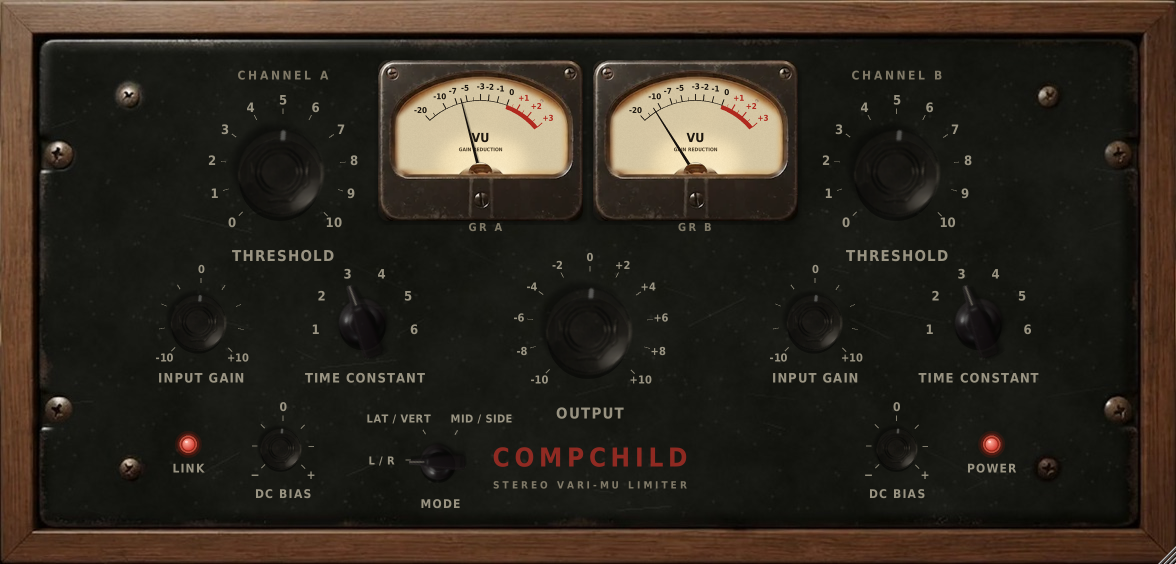
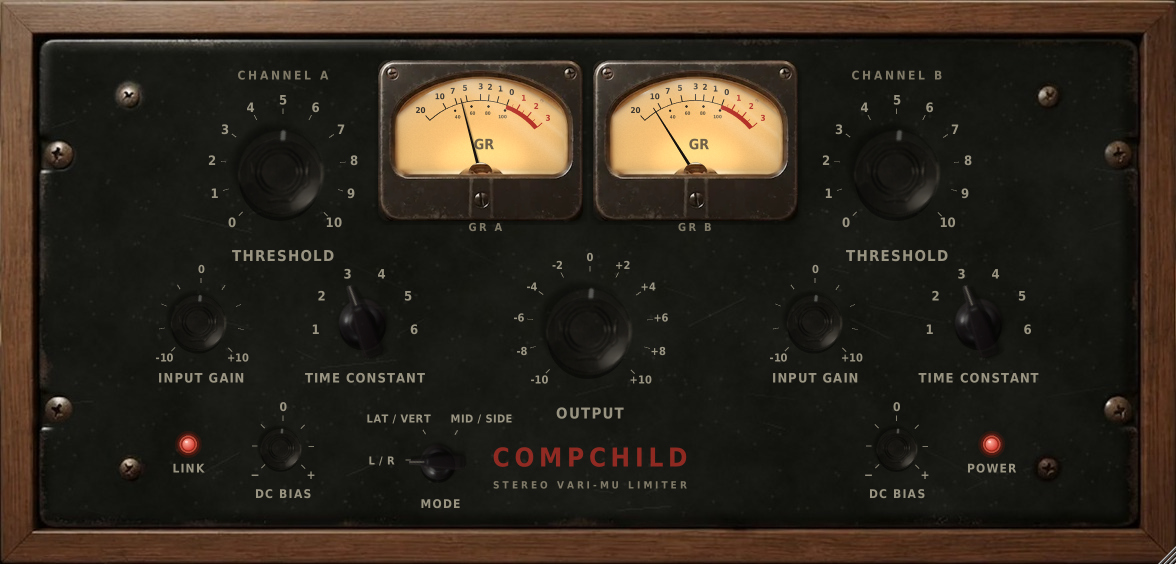
1.1.0: GR meter scale, glass, cream/black meter skins
- meters: 20 10 7 5 3 2 1 0 | 1 2 3 GR scale with 40-100 sub-scale, warm amber face,
  glass layer drawn in front of the needle
- black meter skin (panel-paint face, light needle); click a meter or right-click the
  panel to switch; choice saved with the project
- version 1.1.0

Claude-Session: https://claude.ai/code/session_01XSiDmkCVUNyHSyFPCkZesz

Changed region(s): [[0.5204, 0.1507, 0.6735, 0.3014], [0.3367, 0.1507, 0.4898, 0.3014]]

diff --git a/Source/PluginEditor.cpp b/Source/PluginEditor.cpp
@@ -106,6 +106,9 @@ CompchildEditor::CompchildEditor (CompchildProcessor& p) : AudioProcessorEditor 
 {
     background = loadPng (BinaryData::background_png, BinaryData::background_pngSize);
     dome       = loadPng (BinaryData::vu_dome_png,    BinaryData::vu_dome_pngSize);
+    glass      = loadPng (BinaryData::vu_glass_png,   BinaryData::vu_glass_pngSize);
+    blackFace  = loadPng (BinaryData::vu_face_black_png, BinaryData::vu_face_black_pngSize);
+    skin = (int) proc.apvts.state.getProperty ("meterSkin", 0) == 1 ? Skin::Black : Skin::Cream;
     power.icon = loadPng (BinaryData::power_png, BinaryData::power_pngSize);
 
     // layout from the Compchild wood-panel design (1176 x 564)
@@ -217,8 +220,16 @@ void CompchildEditor::paintOverChildren (juce::Graphics& g)
     g.addTransform (juce::AffineTransform::scale (sc));
 
     // VU needles: pivot under the dome, tapered, with a soft shadow on the paper, clipped to the glass
+    const bool black = skin == Skin::Black;
     for (int i = 0; i < 2; ++i)
     {
+        if (black && blackFace.isValid())   // black skin: the whole meter face is replaced
+        {
+            juce::Graphics::ScopedSaveState fs (g);
+            juce::Path r; r.addRoundedRectangle (vuLeft[i], vuTop, 205.0f, 161.0f, 10.0f);
+            g.reduceClipRegion (r);
+            g.drawImage (blackFace, juce::Rectangle<float> (vuLeft[i], vuTop, 205.0f, 161.0f));
+        }
         juce::Graphics::ScopedSaveState ss (g);
         g.reduceClipRegion (glassPath (vuLeft[i]));
         const juce::Point<float> pivot (vuLeft[i] + pivotX, vuTop + pivotY);
@@ -235,11 +246,21 @@ void CompchildEditor::paintOverChildren (juce::Graphics& g)
             p.closeSubPath();
             return p;
         };
-        g.setColour (juce::Colours::black.withAlpha (0.10f)); g.fillPath (needlePath ({ 2.6f, 3.4f }));
-        g.setColour (juce::Colours::black.withAlpha (0.16f)); g.fillPath (needlePath ({ 1.6f, 2.2f }));
-        g.setColour (juce::Colour (0xff17120d));              g.fillPath (needlePath ({ 0.0f, 0.0f }));
+        if (black)
+        {
+            g.setColour (juce::Colours::black.withAlpha (0.35f)); g.fillPath (needlePath ({ 2.0f, 2.8f }));
+            g.setColour (juce::Colour (0xffeae6dc));              g.fillPath (needlePath ({ 0.0f, 0.0f }));   // light needle on black
+        }
+        else
+        {
+            g.setColour (juce::Colours::black.withAlpha (0.10f)); g.fillPath (needlePath ({ 2.6f, 3.4f }));
+            g.setColour (juce::Colours::black.withAlpha (0.16f)); g.fillPath (needlePath ({ 1.6f, 2.2f }));
+            g.setColour (juce::Colour (0xff17120d));              g.fillPath (needlePath ({ 0.0f, 0.0f }));   // dark needle on cream
+        }
         if (dome.isValid())
             g.drawImage (dome, domeBox.translated (vuLeft[i], vuTop));
+        if (glass.isValid())   // the glass sits in front of the needle
+            g.drawImage (glass, juce::Rectangle<float> (vuLeft[i], vuTop, 205.0f, 161.0f));
     }
 
     // jewel lamps above LINK and POWER
@@ -263,6 +284,36 @@ void CompchildEditor::paintOverChildren (juce::Graphics& g)
     };
     lamp (linkLamp,  link.getToggleState());
     lamp (powerLamp, power.getToggleState());
+}
+
+void CompchildEditor::setSkin (Skin s)
+{
+    skin = s;
+    proc.apvts.state.setProperty ("meterSkin", (int) s, nullptr);   // saved with the project
+    repaint();
+}
+
+void CompchildEditor::mouseDown (const juce::MouseEvent& e)
+{
+    const float sc = (float) getWidth() / (float) kW;
+    const auto p = e.position / sc;
+    const bool onMeter = juce::Rectangle<float> (vuLeft[0], vuTop, 205.0f, 161.0f).contains (p)
+                      || juce::Rectangle<float> (vuLeft[1], vuTop, 205.0f, 161.0f).contains (p);
+
+    if (e.mods.isPopupMenu())
+    {
+        juce::PopupMenu m;
+        m.addSectionHeader ("Meter skin");
+        m.addItem (1, "Cream", true, skin == Skin::Cream);
+        m.addItem (2, "Black", true, skin == Skin::Black);
+        m.showMenuAsync (juce::PopupMenu::Options().withTargetScreenArea ({ e.getScreenX(), e.getScreenY(), 1, 1 }),
+                         [safe = juce::Component::SafePointer<CompchildEditor> (this)] (int r)
+                         {
+                             if (safe != nullptr && r > 0) safe->setSkin (r == 2 ? Skin::Black : Skin::Cream);
+                         });
+    }
+    else if (onMeter)
+        setSkin (skin == Skin::Cream ? Skin::Black : Skin::Cream);
 }
 
 void CompchildEditor::timerCallback()

diff --git a/Source/PluginEditor.h b/Source/PluginEditor.h
@@ -33,6 +33,10 @@ public:
     void paintOverChildren (juce::Graphics&) override;
     void resized() override;
     void settleMetersForSnapshot() { for (int i = 0; i < 60; ++i) timerCallback(); }
+    void mouseDown (const juce::MouseEvent&) override;
+
+    enum class Skin { Cream = 0, Black = 1 };
+    void setSkin (Skin);
 
 private:
     enum class Kind { Big, TimeConstant, Mode };
@@ -47,7 +51,8 @@ private:
 
     CompchildProcessor& proc;
     CompchildLookAndFeel lnf;
-    juce::Image background, dome;
+    juce::Image background, dome, glass, blackFace;
+    Skin skin = Skin::Cream;
 
     Knob thA, inA, tcA, dcA, thB, inB, tcB, dcB, output, mode;
     PanelButton link  { "Link",  PanelButton::Icon::Link };

diff --git a/tools/snapshot.cpp b/tools/snapshot.cpp
@@ -7,6 +7,7 @@ int main (int argc, char** argv)
     CompchildProcessor proc;
     proc.prepareToPlay (48000.0, 512);
     if (argc > 2) { proc.grA.store (6.0f); proc.grB.store (12.0f); }
+    if (argc > 3) proc.apvts.state.setProperty ("meterSkin", 1, nullptr);   // black skin
     std::unique_ptr<juce::AudioProcessorEditor> ed (proc.createEditor());
     if (auto* e = dynamic_cast<CompchildEditor*> (ed.get())) e->settleMetersForSnapshot();
     auto img = ed->createComponentSnapshot (ed->getLocalBounds(), true, 1.0f);

diff --git a/README.md b/README.md
@@ -8,7 +8,8 @@ Stereo vari-mu tube limiter (AU / VST3, macOS universal) on a vintage wood-panel
 - **Mode** — L/R, Lat/Vert (sum/difference, A = lateral, B = vertical), Mid/Side (only the mid is compressed)
 - **Link** (red lamp, bottom left) — channel A’s controls drive both channels (B follows on screen)
 - **Power** (red lamp, bottom right) — bypass when off
-- **GR A / GR B meters** — VU scale; needle rests on 0 and reads gain reduction (-3 = 3 dB, -10 = 10 dB)
+- **GR A / GR B meters** — VU-style GR scale; needle rests on 0 and reads gain reduction (3 = 3 dB, 10 = 10 dB)
+- **Meter skins** — Cream (default) or Black: click a meter to switch, or right-click the panel → Meter skin. Saved with the project.
 
 ## Sound model (Source/dsp/VariMu.h)
 Fitted to black-box measurements of a reference vari-mu plugin (docs/measurements.json):
